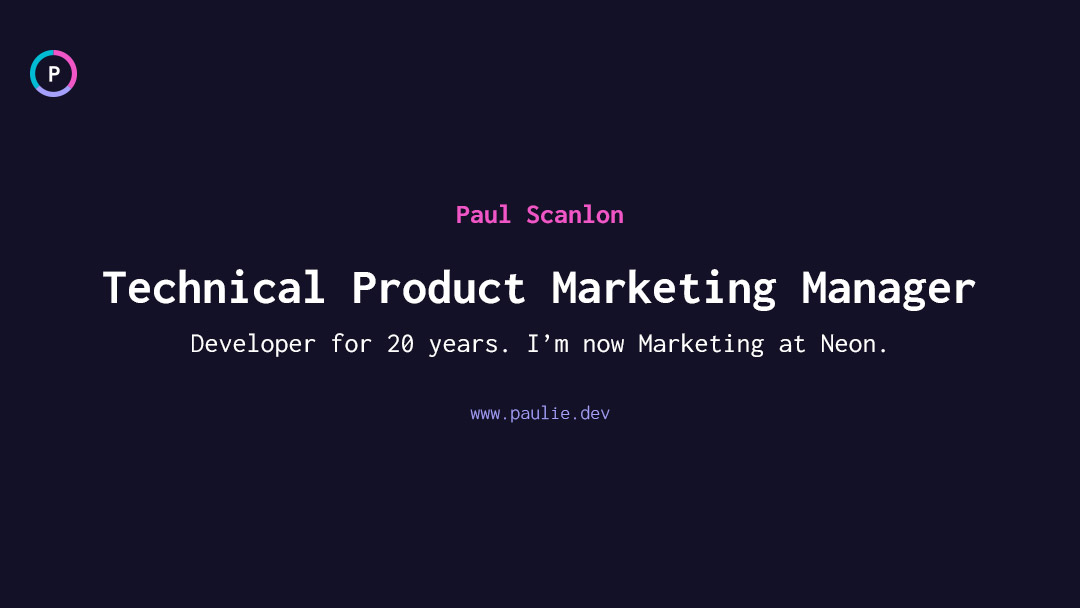
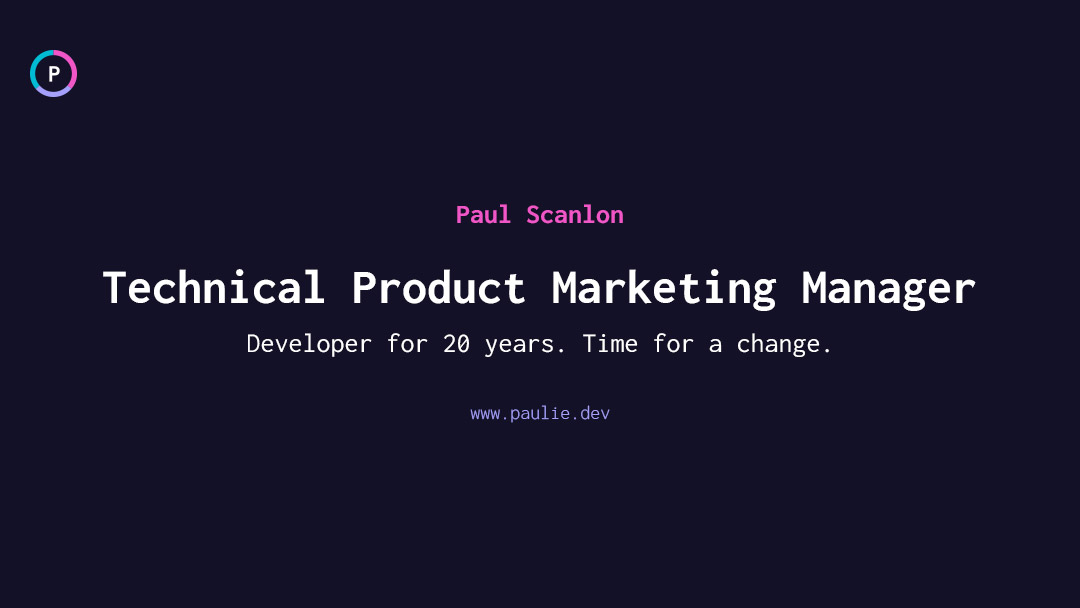
chore: remove neon

Changed region(s): [[0.3667, 0.5312, 0.825, 0.5938], [0.1833, 0.5312, 0.3361, 0.5938]]

diff --git a/README.md b/README.md
@@ -10,4 +10,3 @@
 
 - [https://paulie.dev/](https://paulie.dev/)
 - [@PaulieScanlon](https://twitter.com/PaulieScanlon)
-- [https://neon.tech/](https://neon.tech/)
